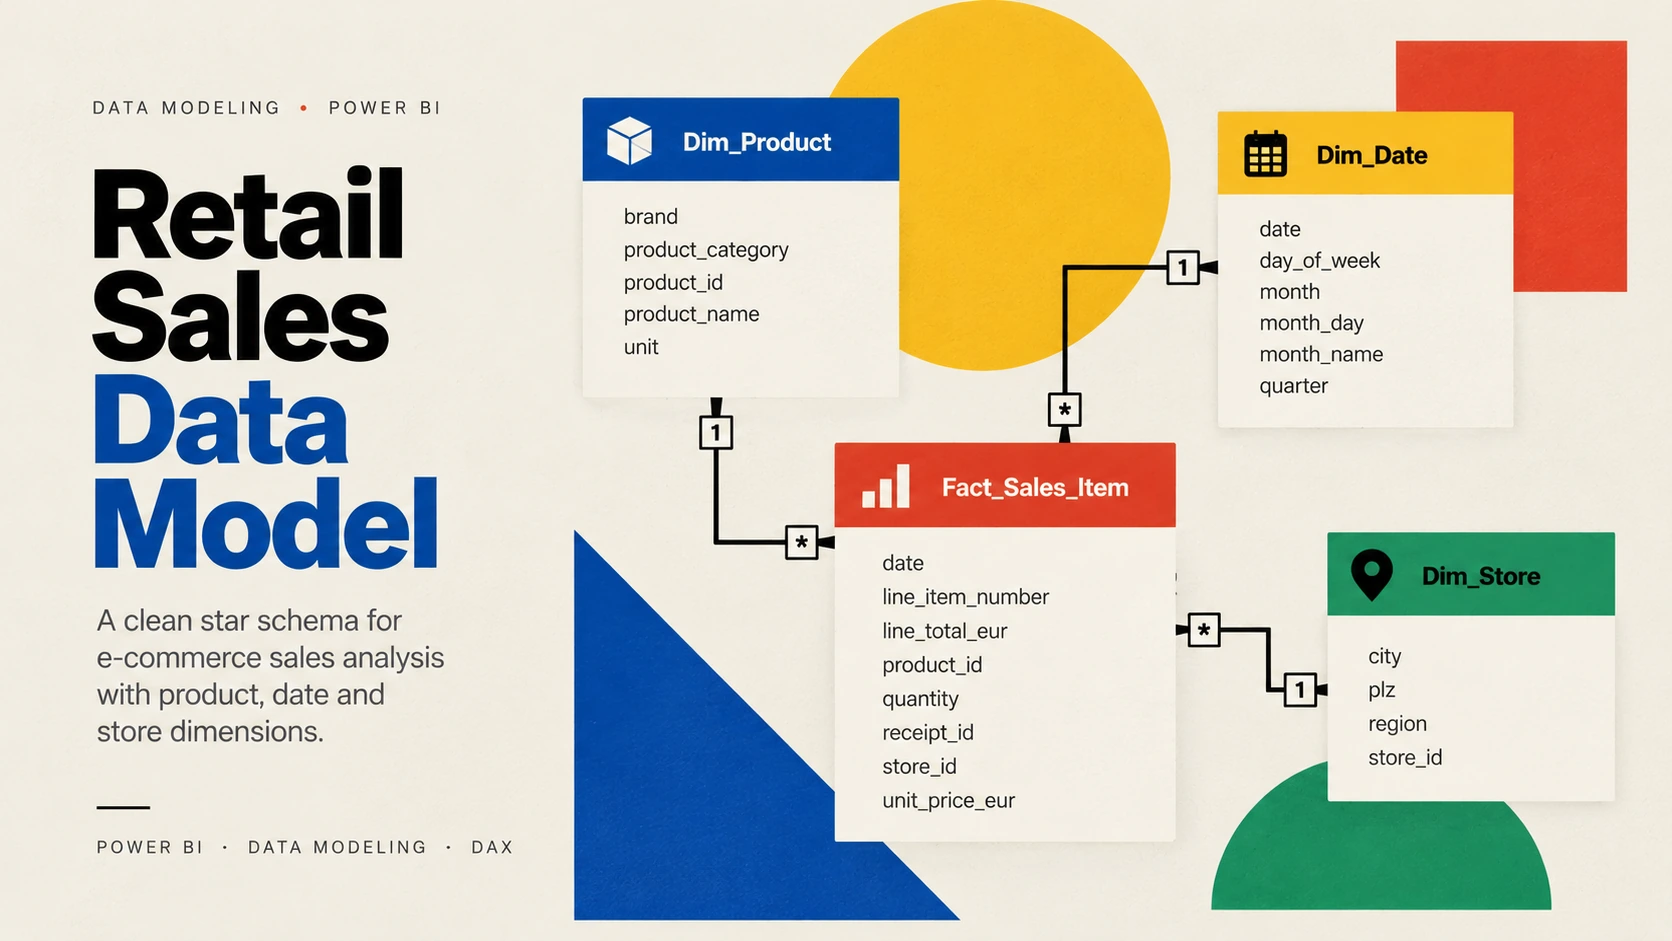
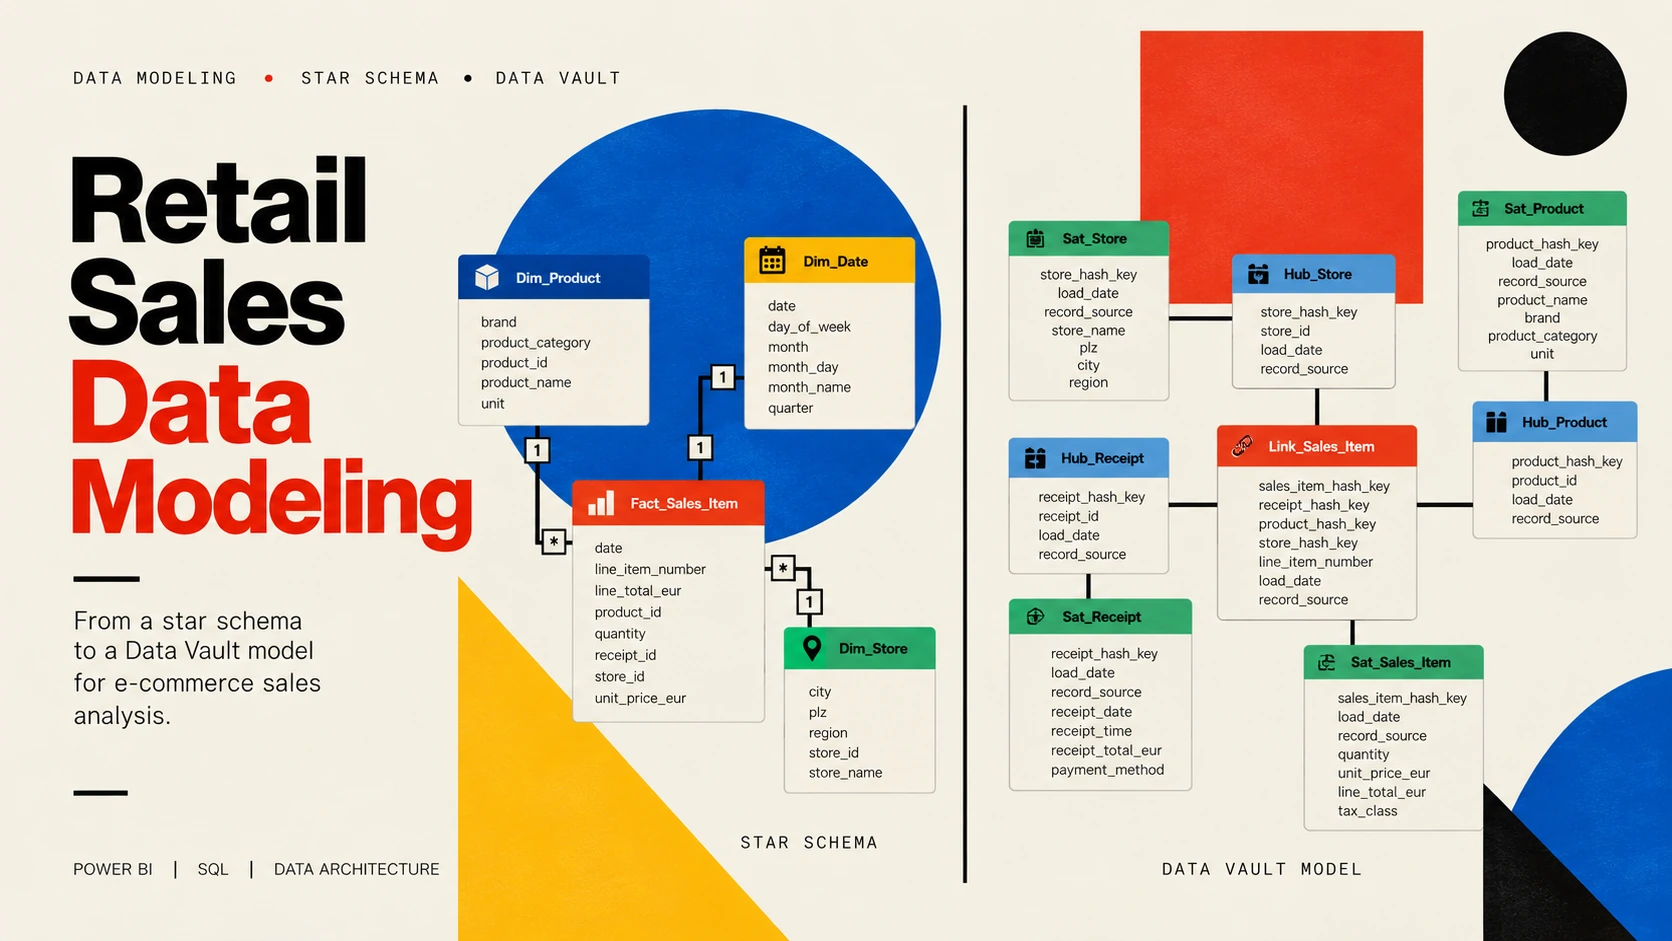
Homepage: star schema vs. data vault cover image
Claude-Session: https://claude.ai/code/session_01WrYojPvr5pPYxGQ397kDFe

diff --git a/index.html b/index.html
@@ -109,7 +109,7 @@
       </a>
 
       <a class="project-card" href="star-schema-vs-data-vault.html">
-        <span class="project-card-img"><img src="images/star-schema-cover.webp" alt="Retail Sales Data Model: star schema with a sales fact table and product, date and store dimensions" width="1672" height="941" loading="lazy"></span>
+        <span class="project-card-img"><img src="images/star-schema-cover.webp?v=2" alt="Retail Sales Data Modeling: a star schema next to a Data Vault model for e-commerce sales analysis" width="1672" height="941" loading="lazy"></span>
         <span class="project-card-body">
           <span class="project-type" data-en="Data modeling · Market-basket analysis" data-de="Datenmodellierung · Warenkorbanalyse">Data modeling · Market-basket analysis</span>
           <span class="project-title">Star Schema vs. Data Vault 2.0</span>
